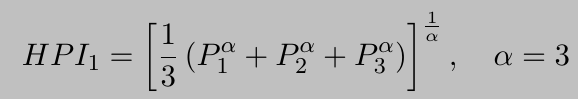
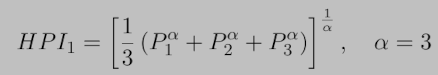
Resizing the image

diff --git a/content/project/Poverty/index.md b/content/project/Poverty/index.md
@@ -12,7 +12,7 @@ image:
   focal_point: Smart
 ---
 
-{{<figure src="AE_draw_poverty.png" title="Autoencoder schema" width="50%">}}
+{{<figure src="AE_draw_poverty.png" title="Autoencoder schema">}}
 
 This is an analysis of the CONEVAL's data for the measurement of poverty in Mexico in 2018, the data are free and can be found in <a href="https://www.coneval.org.mx/Medicion/MP/Paginas/Programas_BD_08_10_12_14_16_18.aspx">https://www.coneval.org.mx/Medicion/MP/Paginas/Programas_BD_08_10_12_14_16_18.aspx</a>.
 
@@ -24,7 +24,7 @@ Before the arrival of the modern Multidimensional Poverty Index, the poverty was
 ### HPI-1
 The HPI-1 is given by the formula:
 
-{{<figure src="HPI1_bis.png">}}
+{{<figure src="HPI1.png">}}
 
 where
 
